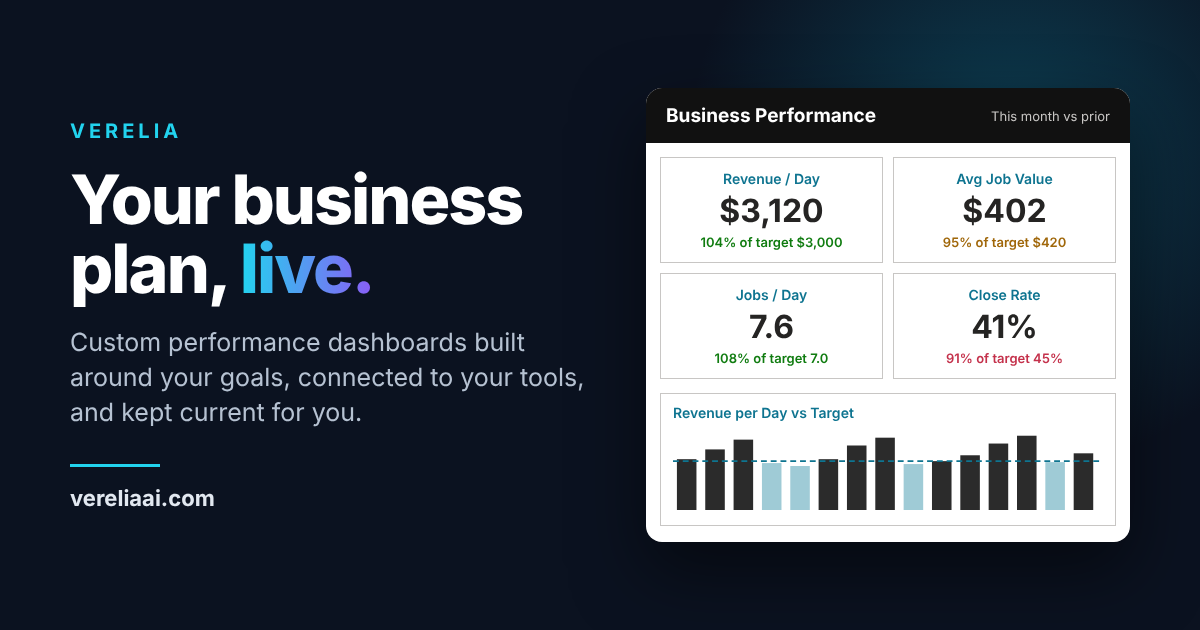
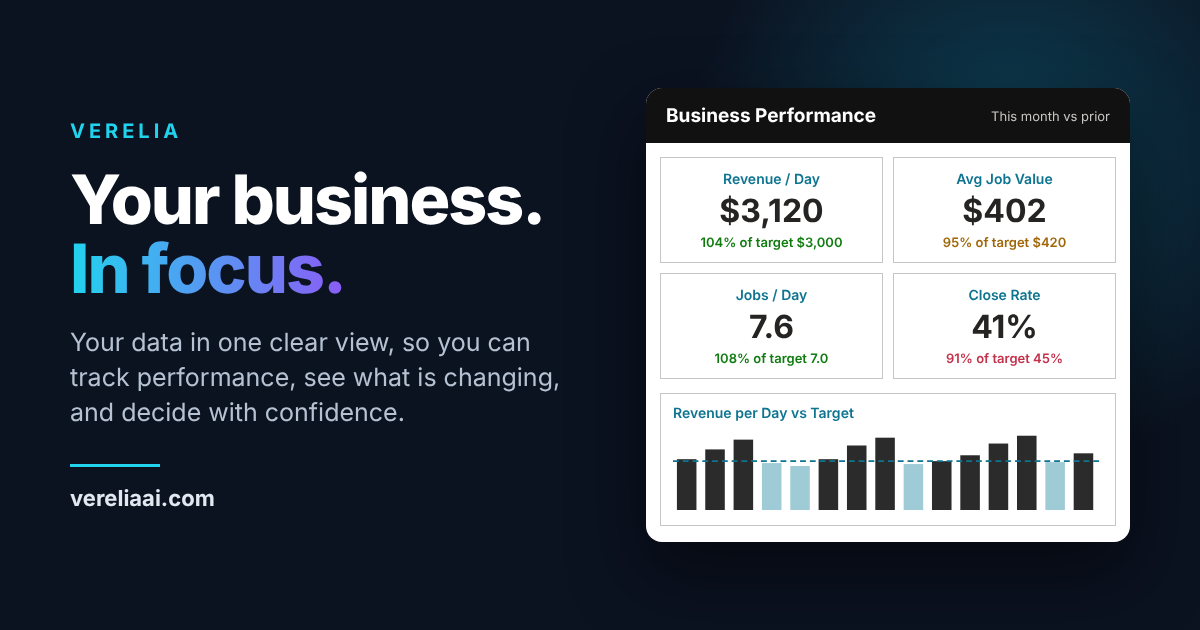
Headline: Your business. In focus. Plans by reporting complexity, broader business examples, healthcare demo
Claude-Session: https://claude.ai/code/session_01DUyDShBxHUv9AZxfvXKo5n

Changed region(s): [[0.0617, 0.5127, 0.4933, 0.6937], [0.0617, 0.3619, 0.3083, 0.4825], [0.4317, 0.3317, 0.4625, 0.3619]]

diff --git a/index.html b/index.html
@@ -3,18 +3,18 @@
 <head>
 <meta charset="UTF-8">
 <meta name="viewport" content="width=device-width, initial-scale=1.0">
-<title>Verelia &mdash; Your business plan, live</title>
+<title>Verelia &mdash; Your business. In focus.</title>
 <meta name="description" content="Verelia builds custom business performance dashboards around your goals, connects the tools you already use, and keeps every number current. See your wireframe first. From $349 a month.">
 <meta property="og:type" content="website">
 <meta property="og:site_name" content="Verelia">
 <meta property="og:url" content="https://vereliaai.com/">
-<meta property="og:title" content="Verelia | Your business plan, live">
+<meta property="og:title" content="Verelia | Your business. In focus.">
 <meta property="og:description" content="Custom business performance dashboards built around your goals, connected to your tools, and kept current for you. Wireframe first, from $349 a month.">
 <meta property="og:image" content="https://vereliaai.com/og-verelia.png">
 <meta property="og:image:width" content="1200">
 <meta property="og:image:height" content="630">
 <meta name="twitter:card" content="summary_large_image">
-<meta name="twitter:title" content="Verelia | Your business plan, live">
+<meta name="twitter:title" content="Verelia | Your business. In focus.">
 <meta name="twitter:description" content="Custom business performance dashboards built around your goals, connected to your tools, and kept current for you. Wireframe first, from $349 a month.">
 <meta name="twitter:image" content="https://vereliaai.com/og-verelia.png">
 <link rel="canonical" href="https://vereliaai.com/">
@@ -184,6 +184,8 @@ section{padding:100px 0}
 .plan.main .flag{position:absolute;top:-13px;left:26px;background:var(--ink);color:#fff;font-size:11.5px;font-weight:800;letter-spacing:.08em;text-transform:uppercase;padding:5px 11px;border-radius:99px}
 .plan h3{font-size:20px;letter-spacing:-.02em}
 .plan .who{font-size:14px;color:var(--muted);margin-top:4px;min-height:44px}
+.plan .val{font-size:13px;font-weight:700;color:var(--ink);margin-top:6px}
+.fits{font-size:14.5px;color:var(--muted);max-width:760px;margin-top:10px}.fits b{color:var(--ink)}
 .price{margin-top:18px;display:flex;align-items:baseline;gap:6px}
 .price b{font-size:44px;font-weight:800;letter-spacing:-.04em}
 .price span{color:var(--muted);font-weight:600}
@@ -380,8 +382,8 @@ ul.plain li::before{content:"";position:absolute;left:0;top:9px;width:6px;height
   <div class="wrap">
     <div>
       <span class="pill"><i></i>Business Performance Intelligence</span>
-      <h1>Your business plan, <span>live.</span></h1>
-      <p class="lede">Your goals, your numbers, your dashboard. Verelia brings together data from the tools you already use, so you can see how your business is performing, where you're falling behind, and what needs your attention. We build it and keep it running.</p>
+      <h1>Your business. <span>In focus.</span></h1>
+      <p class="lede">Verelia brings your data together in one clear view, so you can track performance, understand what's changing, and make decisions with confidence. We build it around your goals and keep it running, so you can focus on running the business.</p>
       <div class="cta-row">
         <a class="btn btn-primary" href="#pricing">Start your dashboard</a>
         <a class="btn btn-ghost" href="#demo">Try it with your business</a>
@@ -427,6 +429,7 @@ ul.plain li::before{content:"";position:absolute;left:0;top:9px;width:6px;height
     <div class="eyebrow">Try it</div>
     <h2>See your dashboard come to life.</h2>
     <p class="lede">Pick your business, your brand color and the metrics you run on. This is the same kind of report we build for clients, with sample numbers.</p>
+    <p class="fits"><b>Built for any business that runs on numbers:</b> professional services firms, agencies, healthcare practices, home services, restaurants, retail, fitness studios, salons and multi-location groups.</p>
 
     <div class="demo-grid">
       <div class="panel">
@@ -566,8 +569,8 @@ ul.plain li::before{content:"";position:absolute;left:0;top:9px;width:6px;height
 <section class="mist" id="partner">
   <div class="wrap">
     <div class="eyebrow">Why Verelia</div>
-    <h2>Business intelligence, without building a data team.</h2>
-    <p class="lede">You already have the data. It's spread across your booking system, accounting software, sales tools and spreadsheets. Verelia brings it together into a dashboard designed around how you actually run your business, and stays on as your analytics partner. We handle the technical work so you can focus on the decisions.</p>
+    <h2>Business intelligence built around your business.</h2>
+    <p class="lede">Whether you're running a single location, managing multiple teams, or overseeing a growing company, Verelia brings your important numbers together in one place. We design your dashboards around your goals, connect the systems you already use, and keep your reporting running. You get a clearer picture of performance without having to build or manage it yourself.</p>
     <div class="compare">
       <table>
         <thead><tr><th>What we deliver</th><th class="us">What it gives you</th></tr></thead>
@@ -591,9 +594,9 @@ ul.plain li::before{content:"";position:absolute;left:0;top:9px;width:6px;height
     <p class="lede">You pay the first month when you subscribe. It covers your wireframe and up to two rounds of changes, and it isn't refunded because that work happens in it. If the wireframe isn't right, cancel before approving and you never pay a setup fee.</p>
     <div class="plans">
       <div class="plan main">
-        <span class="flag">Most businesses</span>
+        <span class="flag">Most popular</span>
         <h3>Starter</h3>
-        <p class="who">For a single-location business that wants its plan on one screen.</p>
+        <p class="who">For a business with a few key systems and straightforward performance goals.</p><p class="val">Know how the business is performing</p>
         <div class="price"><b>$349</b><span>/ month</span></div>
         <div class="setup">$3,000 setup <em>at wireframe approval</em></div>
         <ul><li><svg width="17" height="17" viewBox="0 0 24 24" fill="none" stroke="#0891B2" stroke-width="2.6" aria-hidden="true"><path d="M5 13l4 4L19 7"/></svg>Up to 4 connected tools</li><li><svg width="17" height="17" viewBox="0 0 24 24" fill="none" stroke="#0891B2" stroke-width="2.6" aria-hidden="true"><path d="M5 13l4 4L19 7"/></svg>Up to 4 dashboard pages in your brand</li><li><svg width="17" height="17" viewBox="0 0 24 24" fill="none" stroke="#0891B2" stroke-width="2.6" aria-hidden="true"><path d="M5 13l4 4L19 7"/></svg>Data refreshed every day</li><li><svg width="17" height="17" viewBox="0 0 24 24" fill="none" stroke="#0891B2" stroke-width="2.6" aria-hidden="true"><path d="M5 13l4 4L19 7"/></svg>1 change request each month</li><li><svg width="17" height="17" viewBox="0 0 24 24" fill="none" stroke="#0891B2" stroke-width="2.6" aria-hidden="true"><path d="M5 13l4 4L19 7"/></svg>Logins for you and your team</li></ul>
@@ -601,7 +604,7 @@ ul.plain li::before{content:"";position:absolute;left:0;top:9px;width:6px;height
       </div>
       <div class="plan">
         <h3>Growth</h3>
-        <p class="who">For businesses with more tools, more locations or a bigger team.</p>
+        <p class="who">For a business managing multiple teams, locations or more complex reporting.</p><p class="val">See performance across operations</p>
         <div class="price"><b>$699</b><span>/ month</span></div>
         <div class="setup">$6,000 setup <em>at wireframe approval</em></div>
         <ul><li><svg width="17" height="17" viewBox="0 0 24 24" fill="none" stroke="#0891B2" stroke-width="2.6" aria-hidden="true"><path d="M5 13l4 4L19 7"/></svg>Up to 8 connected tools</li><li><svg width="17" height="17" viewBox="0 0 24 24" fill="none" stroke="#0891B2" stroke-width="2.6" aria-hidden="true"><path d="M5 13l4 4L19 7"/></svg>Up to 8 dashboard pages</li><li><svg width="17" height="17" viewBox="0 0 24 24" fill="none" stroke="#0891B2" stroke-width="2.6" aria-hidden="true"><path d="M5 13l4 4L19 7"/></svg>Data refreshed every hour</li><li><svg width="17" height="17" viewBox="0 0 24 24" fill="none" stroke="#0891B2" stroke-width="2.6" aria-hidden="true"><path d="M5 13l4 4L19 7"/></svg>3 change requests each month</li><li><svg width="17" height="17" viewBox="0 0 24 24" fill="none" stroke="#0891B2" stroke-width="2.6" aria-hidden="true"><path d="M5 13l4 4L19 7"/></svg>Monthly review call with your analyst</li></ul>
@@ -609,7 +612,7 @@ ul.plain li::before{content:"";position:absolute;left:0;top:9px;width:6px;height
       </div>
       <div class="plan">
         <h3>Enterprise</h3>
-        <p class="who">For multi-location groups and companies that need their own data warehouse.</p>
+        <p class="who">For organizations with advanced integrations, governance or tailored data requirements.</p><p class="val">Reliable intelligence across the organization</p>
         <div class="price"><b>Custom</b></div>
         <div class="setup">Scoped with you</div>
         <ul><li><svg width="17" height="17" viewBox="0 0 24 24" fill="none" stroke="#0891B2" stroke-width="2.6" aria-hidden="true"><path d="M5 13l4 4L19 7"/></svg>A Verelia-hosted Snowflake warehouse, or yours</li><li><svg width="17" height="17" viewBox="0 0 24 24" fill="none" stroke="#0891B2" stroke-width="2.6" aria-hidden="true"><path d="M5 13l4 4L19 7"/></svg>Direct data access for your analysts</li><li><svg width="17" height="17" viewBox="0 0 24 24" fill="none" stroke="#0891B2" stroke-width="2.6" aria-hidden="true"><path d="M5 13l4 4L19 7"/></svg>Single sign-on</li><li><svg width="17" height="17" viewBox="0 0 24 24" fill="none" stroke="#0891B2" stroke-width="2.6" aria-hidden="true"><path d="M5 13l4 4L19 7"/></svg>Unlimited tools and pages</li><li><svg width="17" height="17" viewBox="0 0 24 24" fill="none" stroke="#0891B2" stroke-width="2.6" aria-hidden="true"><path d="M5 13l4 4L19 7"/></svg>A named contact at Verelia</li></ul>
@@ -717,10 +720,14 @@ ul.plain li::before{content:"";position:absolute;left:0;top:9px;width:6px;height
       {id:'avgjob',l:'Avg Job Value',f:'$0',t:420},{id:'close',l:'Close Rate',f:'%',t:.45},{id:'jpt',l:'Jobs per Tech / Day',f:'d',t:3},
       {id:'callback',l:'Callback Rate',f:'%',t:.03,dn:1},{id:'leads',l:'Leads / Wk',f:'n',t:60,add:1},{id:'resp',l:'Response Time',f:'h',t:1,dn:1},
       {id:'repeat',l:'Repeat Customers',f:'%',t:.30},{id:'rating',l:'Google Rating',f:'r',t:4.7}]},
-    agency:{label:'Agency or studio',goal:5000,role:'Team',kpi:['rev','util','rate','margin'],chart:'rev',m:[
+    agency:{label:'Agency or professional services',goal:5000,role:'Team',kpi:['rev','util','rate','margin'],chart:'rev',m:[
       {id:'rev',l:'Billable Rev / Day',f:'$0',t:'goal',add:1,day:1},{id:'util',l:'Billable Utilization',f:'%',t:.75},{id:'rate',l:'Effective Rate',f:'$0',t:150},
       {id:'margin',l:'Project Margin',f:'%',t:.40},{id:'pipe',l:'Pipeline Coverage',f:'x',t:3},{id:'win',l:'Proposal Win Rate',f:'%',t:.35},
       {id:'retainer',l:'Retainer Share',f:'%',t:.60},{id:'ontime',l:'On-time Delivery',f:'%',t:.90}]},
+    health:{label:'Healthcare practice',goal:5000,role:'Provider',kpi:['rev','visits','collect','noshow'],chart:'visits',m:[
+      {id:'rev',l:'Collections / Day',f:'$0',t:'goal',add:1,day:1},{id:'visits',l:'Patient Visits / Day',f:'d',t:function(g){return g/160},add:1,day:1},
+      {id:'collect',l:'Collected / Visit',f:'$0',t:160},{id:'noshow',l:'No-show Rate',f:'%',t:.06,dn:1},{id:'newp',l:'New Patients / Wk',f:'n',t:20,add:1},
+      {id:'util',l:'Provider Utilization',f:'%',t:.85},{id:'ar',l:'Days in A/R',f:'d',t:35,dn:1},{id:'clean',l:'Clean Claim Rate',f:'%',t:.95},{id:'rating',l:'Google Rating',f:'r',t:4.8}]},
     retail:{label:'Retail shop',goal:3000,role:'Associate',kpi:['rev','txns','aov','conv'],chart:'rev',m:[
       {id:'rev',l:'Revenue / Day',f:'$0',t:'goal',add:1,day:1},{id:'txns',l:'Transactions / Day',f:'n',t:function(g){return g/64},add:1,day:1},
       {id:'aov',l:'Avg Order',f:'$2',t:64},{id:'conv',l:'Conversion',f:'%',t:.22},{id:'ipt',l:'Items per Sale',f:'d',t:2.1},{id:'gm',l:'Gross Margin',f:'%',t:.48},
